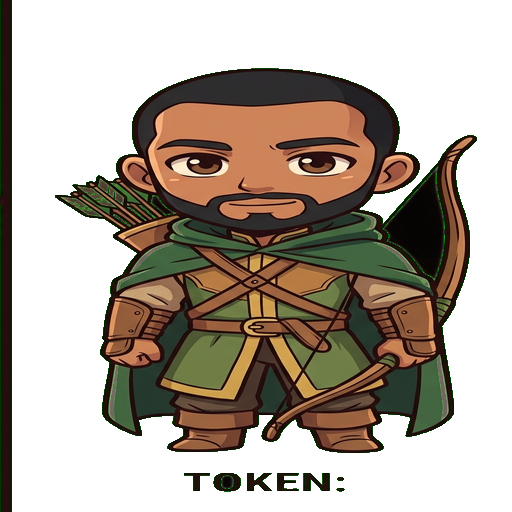
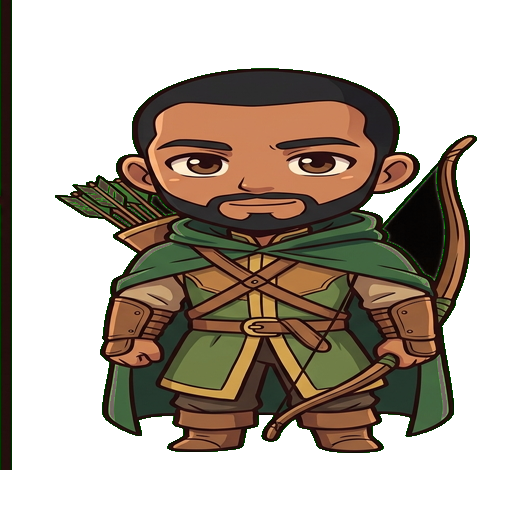
Wire the ten species x role portraits into the forge matrix
The art from art/prompts.md 6b is generated. This processes it, wires
it, and closes the matrix.

SPECIES_PORTRAIT becomes a per-species record rather than one tagged
entry, so a species can carry a martial look and a caster look. That
fixes the holes the matrix used to fill with the wrong picture: a human
ranger wore the elf archer, pointed ears and all; a human paladin wore
the dragonborn; a dwarf wizard fell back to the generic human wizard; a
tiefling fighter got the robed warlock.

Added a third optional slot, skirmisher. The halfling is the only
species with all three looks drawn, and without it a halfling rogue was
handed the mail-shirt warrior instead of the hooded art it already had.
Any species that later gains a Tier D skirmisher slots in the same way.

Every species x class cell now resolves to art that exists, enforced by
a test rather than by inspection, and the forge's portrait picker
offers all eighteen.

CLEANUP: three of the ten came back with the spec label ("PORTRAIT")
rendered into the bottom of the canvas, in both the token and the
portrait -- six files. Cleared those rows; each sat below a fully
transparent gap so nothing else was touched. Checked the whole set
first: the band in portrait-tiefling-knight is its sword, not a label,
and was left alone. The doc now warns to check the bottom strip before
processing, since the artefact vanishes at 48px token size but is
obvious on the bust.
[…]

Changed region(s): [[0.375, 0.9062, 0.6875, 0.9688], [0.0, 0.9062, 0.0312, 1.0]]

diff --git a/test/choices.test.ts b/test/choices.test.ts
@@ -8,6 +8,8 @@ import { SPECIES } from '../src/data/species.js';
 import { CLASSES } from '../src/data/classes.js';
 import { randomNameFor } from '../src/builder/names.js';
 import { seedRng } from '../src/engine/rng.js';
+import { HAS_ART } from '../web/src/art.js';
+import { PORTRAITS } from '../web/src/portraits.js';
 
 const SPECIES_IDS = Object.keys(SPECIES);
 
@@ -104,7 +106,9 @@ describe('build-choice points', () => {
     const rogue = c.characters.find((ch) => ch.classId === 'rogue')!;     // halfling
     const cleric = c.characters.find((ch) => ch.classId === 'cleric')!;   // human
     expect(fighter.portraitId).toBe('dwarf-berserker');
-    expect(rogue.portraitId).toBe('halfling-warrior');
+    // The halfling has all three looks drawn, so its rogue gets the hooded art
+    // rather than the mail-shirt warrior.
+    expect(rogue.portraitId).toBe('halfling-rogue');
     expect(cleric.portraitId).toBe('cleric'); // human → class image
   });
 
@@ -243,5 +247,55 @@ describe('random names', () => {
     const seen = new Set([before, c.characters[0]!.name]);
     for (let i = 0; i < 8; i++) { rerollPartyName(c, 0); seen.add(c.characters[0]!.name); }
     expect(seen.size).toBeGreaterThan(1);
+  });
+});
+
+/**
+ * The forge derives a default portrait from species × class. Before the §6b art
+ * landed this matrix had holes it filled with the wrong picture — a human
+ * ranger wore the elf archer, pointed ears and all, and a human paladin wore
+ * the dragonborn. Every cell now resolves to art that actually exists.
+ */
+describe('portrait matrix', () => {
+  const SPECIES_IDS = Object.keys(SPECIES);
+  const CLASS_IDS = Object.keys(CLASSES);
+
+  it('every species × class lands on art that exists', () => {
+    const missing: string[] = [];
+    for (const s of SPECIES_IDS) {
+      for (const cl of CLASS_IDS) {
+        const id = defaultPortraitFor(s, cl);
+        if (!HAS_ART.has(id)) missing.push(`${s}/${cl} → ${id}`);
+      }
+    }
+    expect(missing, `portraits with no art:\n${missing.join('\n')}`).toEqual([]);
+  });
+
+  it('a human ranger is not an elf, and a human paladin is not a dragon', () => {
+    expect(defaultPortraitFor('human', 'ranger')).toBe('ranger');
+    expect(defaultPortraitFor('human', 'paladin')).toBe('paladin');
+  });
+
+  it('casters of the martial species get the caster art, not the human wizard', () => {
+    expect(defaultPortraitFor('dwarf', 'wizard')).toBe('dwarf-cleric');
+    expect(defaultPortraitFor('elf', 'cleric')).toBe('elf-wizard');
+    expect(defaultPortraitFor('orc', 'wizard')).toBe('orc-shaman');
+    expect(defaultPortraitFor('dragonborn', 'wizard')).toBe('dragonborn-sorcerer');
+  });
+
+  it('fighters of the caster species get armour, not robes', () => {
+    expect(defaultPortraitFor('tiefling', 'fighter')).toBe('tiefling-knight');
+    expect(defaultPortraitFor('gnome', 'fighter')).toBe('gnome-warden');
+    expect(defaultPortraitFor('halfling', 'fighter')).toBe('halfling-warrior');
+  });
+
+  it('the halfling rogue keeps its hooded art — the one species with all three looks', () => {
+    expect(defaultPortraitFor('halfling', 'rogue')).toBe('halfling-rogue');
+    // …and no other species is handed a skirmisher it doesn't have art for.
+    expect(defaultPortraitFor('dwarf', 'rogue')).toBe('dwarf-berserker');
+  });
+
+  it('every portrait offered in the forge picker has art behind it', () => {
+    for (const p of PORTRAITS) expect(HAS_ART.has(p.id), `${p.id} has no art`).toBe(true);
   });
 });

diff --git a/src/campaign/campaign.ts b/src/campaign/campaign.ts
@@ -500,20 +500,24 @@ export { HERO_NAMES as DEFAULT_NAMES, defaultNameFor };
  * orc a barbarian, which read wrong on a robed wizard. `martial` art is skipped
  * for casters, who fall back to their class portrait.
  */
-const SPECIES_PORTRAIT: Partial<Record<Id, { martial: Id; caster: Id }>> = {
+const SPECIES_PORTRAIT: Partial<Record<Id, { martial: Id; caster: Id; skirmisher?: Id }>> = {
   dwarf: { martial: 'dwarf-berserker', caster: 'dwarf-cleric' },
   elf: { martial: 'elf-archer', caster: 'elf-wizard' },
   orc: { martial: 'orc-barbarian', caster: 'orc-shaman' },
   dragonborn: { martial: 'dragonborn-paladin', caster: 'dragonborn-sorcerer' },
   tiefling: { martial: 'tiefling-knight', caster: 'tiefling-warlock' },
   gnome: { martial: 'gnome-warden', caster: 'gnome-bard' },
-  halfling: { martial: 'halfling-warrior', caster: 'halfling-priest' },
+  // The halfling is the one species with all three looks drawn, so its rogue
+  // keeps the hooded art instead of being handed the mail-shirt warrior.
+  halfling: { martial: 'halfling-warrior', caster: 'halfling-priest', skirmisher: 'halfling-rogue' },
   // Human has no entry on purpose: the class portraits *are* the human art, so
   // a human fighter should look like the Fighter, not like the bard.
 };
 
 /** Classes whose look is robes and spellbooks rather than mail and axes. */
 const CASTER_CLASSES = new Set<Id>(['wizard', 'cleric']);
+/** Light, hooded, knife-in-the-dark classes — the third look, where it's drawn. */
+const SKIRMISHER_CLASSES = new Set<Id>(['rogue']);
 
 /**
  * Class portraits for hero classes — ranger and paladin now have dedicated art.
@@ -529,7 +533,9 @@ export function defaultPortraitFor(speciesId: Id, classId: Id): Id {
   const species = SPECIES_PORTRAIT[speciesId];
   const classPortrait = CLASS_PORTRAIT[classId] ?? classId;
   if (!species) return classPortrait;
-  return CASTER_CLASSES.has(classId) ? species.caster : species.martial;
+  if (CASTER_CLASSES.has(classId)) return species.caster;
+  if (SKIRMISHER_CLASSES.has(classId) && species.skirmisher) return species.skirmisher;
+  return species.martial;
 }
 
 /**

diff --git a/web/src/art.ts b/web/src/art.ts
@@ -13,6 +13,12 @@ export const HAS_ART = new Set<string>([
   'kobold', 'scout', 'orc', 'brown-bear', 'cult-fanatic', 'animated-armor',
   'orc-barbarian', 'dragonborn-paladin', 'gnome-bard', 'halfling-rogue', 'tiefling-warlock',
   'dwarf-berserker', 'elf-archer', 'human-bard', 'bandit-captain',
+  // Species x role portraits (art/prompts.md §6b) — these close the forge's
+  // species x class matrix, which previously filled its holes with the wrong
+  // picture (human rangers in elf ears, dwarf wizards drawn as humans).
+  'ranger', 'paladin', 'dwarf-cleric', 'elf-wizard', 'orc-shaman',
+  'dragonborn-sorcerer', 'tiefling-knight', 'gnome-warden',
+  'halfling-warrior', 'halfling-priest',
   'ranger', 'paladin', 'dwarf-cleric', 'elf-wizard', 'orc-shaman',
   'dragonborn-sorcerer', 'tiefling-knight', 'gnome-warden', 'halfling-warrior', 'halfling-priest',
   'knight', 'minotaur', 'ettin', 'priest', 'ogre-mage',

diff --git a/web/src/portraits.ts b/web/src/portraits.ts
@@ -25,6 +25,16 @@ export const PORTRAITS: PortraitOption[] = [
   { id: 'dwarf-berserker', name: 'Dwarf Berserker' },
   { id: 'elf-archer', name: 'Elf Archer' },
   { id: 'human-bard', name: 'Human Bard' },
+  { id: 'ranger', name: 'Ranger' },
+  { id: 'paladin', name: 'Paladin' },
+  { id: 'dwarf-cleric', name: 'Dwarf Cleric' },
+  { id: 'elf-wizard', name: 'Elf Wizard' },
+  { id: 'orc-shaman', name: 'Orc Shaman' },
+  { id: 'dragonborn-sorcerer', name: 'Dragonborn Sorcerer' },
+  { id: 'tiefling-knight', name: 'Tiefling Knight' },
+  { id: 'gnome-warden', name: 'Gnome Warden' },
+  { id: 'halfling-warrior', name: 'Halfling Warrior' },
+  { id: 'halfling-priest', name: 'Halfling Priest' },
 ];
 
 export function portraitName(id: string): string {

diff --git a/art/prompts.md b/art/prompts.md
@@ -17,11 +17,10 @@ eye-level **location scenes** and **NPC-archetype portraits** — the NPC set
 reuses this doc's style bible verbatim.
 
 **Status legend:** ✅ generated and wired in the engine (`HAS_ART` in
-`web/src/art.ts`) · ⬜ needed (still on the emoji fallback). The four heroes,
-eight species portraits, and all Tier 1–4 monsters are ✅. Outstanding: the ten
-**species × role portraits in §6b**, which is the reason this doc was last
-touched — the forge's species × class matrix currently has holes it fills with
-the wrong picture (human rangers with elf ears, dwarf wizards drawn as humans).
+`web/src/art.ts`) · ⬜ needed (still on the emoji fallback). Everything in this
+doc is now ✅: the four heroes, the eighteen species/role portraits, and all
+Tier 1–4 monsters. The species × class matrix in the forge is fully covered —
+every combination resolves to real art, enforced by a test.
 
 ---
 
@@ -289,13 +288,13 @@ front the level 4–5 ladder; Priest and Ogre Mage are spellcasters.
 
 ---
 
-## 6b. Species × role portraits — ⬜ NEEDED
+## 6b. Species × role portraits — ✅ GENERATED
 
 **Why these exist.** `portraitId` drives *both* the board token and the bust
 (`Board.tsx` reads `c.portraitId ?? c.classId`), and the forge picks a default
-from a species × class matrix (`defaultPortraitFor`, campaign.ts). Each species
-currently has exactly **one** portrait, tagged martial or not, so the matrix has
-holes it fills with the wrong picture:
+from a species × class matrix (`defaultPortraitFor`, campaign.ts). Before these
+landed each species had exactly **one** portrait, tagged martial or not, so the
+matrix had holes it filled with the wrong picture:
 
 - A **human ranger** wears `elf-archer` — pointed ears on a human — and a
   **human paladin** wears `dragonborn-paladin`, a dragon's head. Ranger and
@@ -373,15 +372,24 @@ Not needed to close the matrix; listed so nobody re-derives them later. Each
 would give its species a light/skirmisher look distinct from both siblings:
 `dwarf-scout`, `elf-blade`, `orc-hunter`, `dragonborn-monk`, `gnome-tinker`.
 
-### Wiring after generation
+### Wiring — done
 
-1. Drop `token-<id>.png` and `portrait-<id>.png` in `art/source/`.
-2. Add the ids to `IDS` in `art/process.py` and to `HAS_ART` in `web/src/art.ts`.
-3. Run `python art/process.py`.
-4. Point the matrix at them in `src/campaign/campaign.ts`: `CLASS_PORTRAIT`
-   gains real `ranger` / `paladin` entries (they currently borrow `elf-archer`
-   and `dragonborn-paladin`), and `SPECIES_PORTRAIT` becomes a per-species
-   `{ martial, caster }` pair rather than a single tagged entry.
+All ten are generated, processed and wired. `SPECIES_PORTRAIT` in
+`src/campaign/campaign.ts` is now a per-species `{ martial, caster, skirmisher? }`
+record, `CLASS_PORTRAIT` has real `ranger` / `paladin` entries, and every
+species × class cell is covered by a test in `test/choices.test.ts`.
+
+Only the halfling has all three looks drawn (`halfling-warrior` /
+`halfling-priest` / `halfling-rogue`), which is what `skirmisher` is for — a
+halfling rogue keeps the hooded art instead of being handed the mail shirt. Any
+species that later gains a Tier D skirmisher slots in the same way.
+
+**A note for the next generation run:** three of these ten came back with the
+spec label ("PORTRAIT") rendered into the bottom of the canvas, in both the
+token and the portrait — six files needing a cleanup pass before processing. The
+style preamble already says *no text, no watermark*; it is worth checking the
+bottom strip of every asset before running `process.py`, since the artefact is
+invisible once the image is scaled into a 48px token but obvious on the bust.
 
 ---
 
@@ -428,20 +436,20 @@ Species portrait variants (✅, forge only — token + portrait both present):
 `tiefling-warlock`, `dwarf-berserker`, `elf-archer`, `human-bard` — files
 `token-<id>.png` / `portrait-<id>.png`.
 
-Species × role portraits still needed (⬜, see §6b) — same file convention:
+Species × role portraits (✅, see §6b) — same file convention:
 
-| Asset | Id | Why |
+| Asset | Id | Fills |
 | --- | --- | --- |
-| Ranger | `ranger` | human rangers currently wear `elf-archer` |
-| Paladin | `paladin` | human paladins currently wear `dragonborn-paladin` |
-| Dwarf Cleric | `dwarf-cleric` | dwarf casters fall back to the human wizard |
-| Elf Wizard | `elf-wizard` | elf casters fall back to the human wizard |
-| Orc Shaman | `orc-shaman` | orc casters fall back to the human wizard |
-| Dragonborn Sorcerer | `dragonborn-sorcerer` | dragonborn casters fall back to the human wizard |
-| Tiefling Knight | `tiefling-knight` | tiefling fighters wear the robed warlock |
-| Gnome Warden | `gnome-warden` | gnome fighters wear the bard |
-| Halfling Warrior | `halfling-warrior` | halfling fighters wear the hooded rogue |
-| Halfling Priest | `halfling-priest` | halflings have no caster art |
+| Ranger | `ranger` | any ranger without species art (was `elf-archer`) |
+| Paladin | `paladin` | any paladin without species art (was `dragonborn-paladin`) |
+| Dwarf Cleric | `dwarf-cleric` | dwarf casters |
+| Elf Wizard | `elf-wizard` | elf casters |
+| Orc Shaman | `orc-shaman` | orc casters |
+| Dragonborn Sorcerer | `dragonborn-sorcerer` | dragonborn casters |
+| Tiefling Knight | `tiefling-knight` | tiefling martials |
+| Gnome Warden | `gnome-warden` | gnome martials |
+| Halfling Warrior | `halfling-warrior` | halfling martials |
+| Halfling Priest | `halfling-priest` | halfling casters |
 
 **After generating the ⬜ art:** drop the source PNGs in `art/source/`, add the
 ids to `IDS` in `art/process.py` and `HAS_ART` in `web/src/art.ts`, then run
